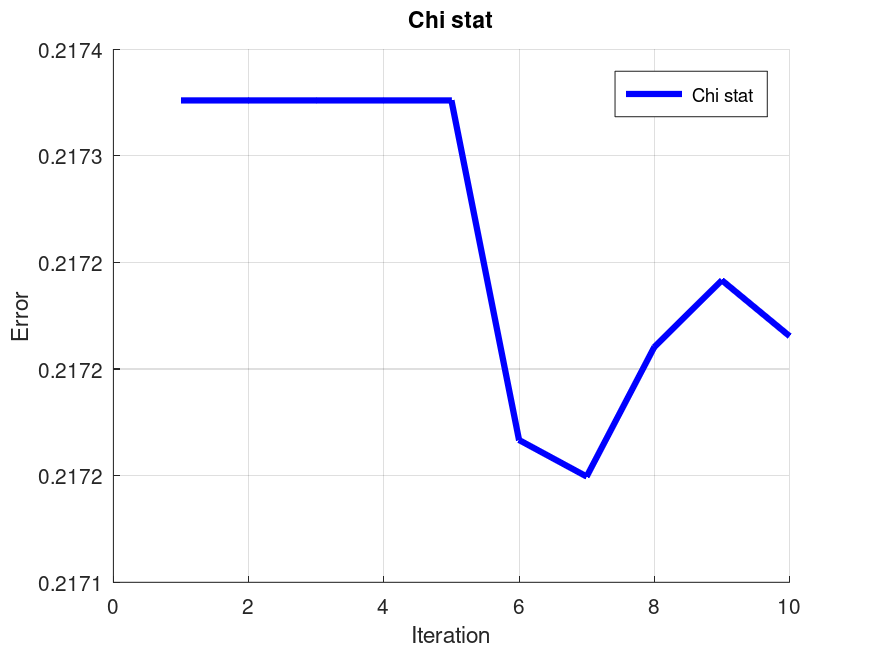
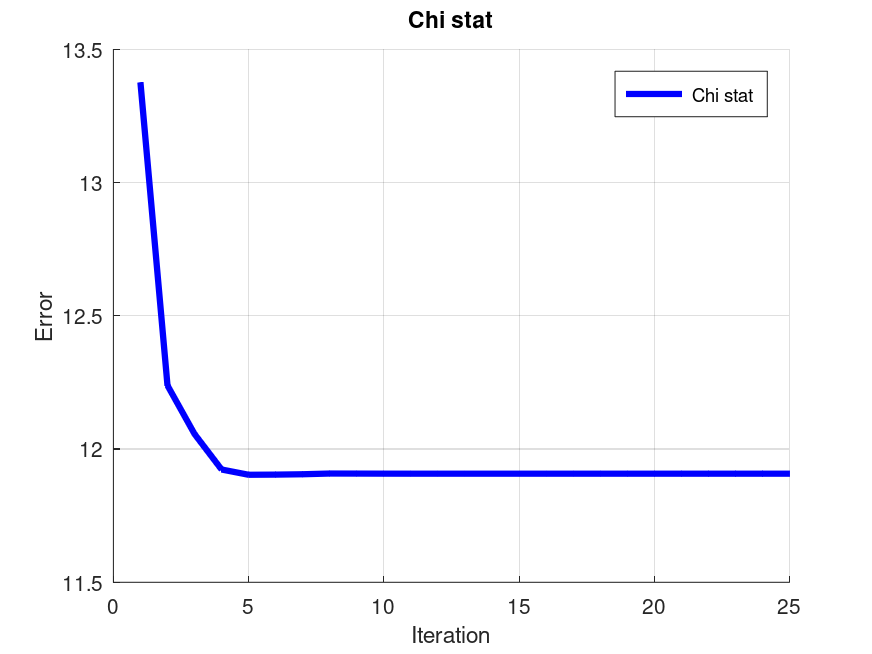
Updated: calibration and plot functions

diff --git a/robot_calibration/calibration.m b/robot_calibration/calibration.m
@@ -109,111 +109,86 @@ function X = boxplus(x1, x2)
 endfunction
 
 function X = boxminus(x1, x2)
-  X = t2v(x1*inv(x2));
+  X = t2v(inv(x2)*x1);
 endfunction
 
-function odometry = odometry_update(x, i, odometry_pose, delta_ticks, delta_time)
-  ksteer = x(1);
-  ktraction = x(2);
-  axis_length = x(3);
-  steer_offset = x(4);
-
-  #threshold for increments that are too small
-  alpha_x = 1e-5;
-  alpha_y = 1e-5;
-  alpha_th = 1e-4;
-  alpha_phi = 1e-4;
-  alpha = [alpha_x, alpha_y, alpha_th, alpha_phi];
-
-  ticks_steer = delta_ticks(i, 1);
-  ticks_traction = delta_ticks(i, 2);
-
-  v = (ktraction*ticks_traction);
-  dphi = (ksteer*ticks_steer) + steer_offset;
-
-  if i == 1
-    delta = [0, 0, 0, 0];
-  else
-    dx = v * cos(odometry_pose(i-1, 3))*cos(odometry_pose(i-1, 4))*delta_time(i, 1);
-    dy = v * sin(odometry_pose(i-1, 3))*cos(odometry_pose(i-1, 4))*delta_time(i, 1);
-    dth = v * (sin(odometry_pose(i-1, 4))/axis_length)*delta_time(i, 1);
-    dphi = dphi*delta_time(i, 1);
-
-    #noise
-    n = 0.00001;
-
-    delta = [dx, dy, dth, dphi] + n;
-
-    #skip increments that are too small
-    delta(abs(delta) < alpha) = 0;
-
-    if any(delta ~= 0)
-      delta = odometry_pose(i-1, :) + delta;
-    else
-      delta = odometry_pose(i-1, :);
-    endif
-  endif
-  odometry = delta;
-endfunction
-
-function [X, chi_stats, n_inliers, odometry_calibration] = odometry_calibration(X, tracker_pose, delta_ticks, delta_time, n_iter)
-
+function [X, chi_stats, n_inliers] = odometry_calibration(odometry_pose, tracker_pose, n_iter)
   chi_stats = zeros(1, n_iter);
   n_inliers = zeros(1, n_iter);
-  threshold_kernel = 1e-4;
-  damping = 1;
-  odometry_pose = zeros(size(delta_ticks, 1), 4);
-
+  threshold_kernel = 1e10;
+  damping = 0;
+  X = eye(3);
+  
   for i = 1:n_iter
     H = zeros(length(X), length(X));
     b = zeros(length(X), 1);
     chi_stats(i) = 0;
-
+    
     for j = 1:size(tracker_pose, 1)
-      [e, J, odometry] = ErrorAndJacobian(X, j, odometry_pose, tracker_pose, delta_ticks, delta_time);
-      odometry_pose(j, :) = odometry;
+      [e, J] = ErrorAndJacobian(X, odometry_pose(j, :), tracker_pose(j, :));
       chi = e'*e;
-
+      
       if (chi > threshold_kernel)
         e = e*sqrt(threshold_kernel/chi);
         chi = threshold_kernel;
       else
         n_inliers(i)++;
       endif
-
+      
       chi_stats(i) = chi_stats(i) + chi;
       H = H + J' * J;
       b = b + J' * e;
     endfor
-    H = H + eye(4)*damping;
+    H = H + eye(3) * damping;
 
     dx = -H\b;
-    X = X + dx;
-    fprintf('Iteration %d: X = [%f, %f, %f, %f] and chi stat = %f\n', i, X(1), X(2), X(3), X(4), chi_stats(i));
+    X = boxplus(X, dx);
+    fprintf('Iteration %d: chi stat = %f\n', i, chi_stats(i));
   endfor
-  odometry_calibration = odometry_pose;
 endfunction
 
-function [e, J, odometry] = ErrorAndJacobian(X, j, odometry_pose, tracker_pose, delta_ticks, delta_time)
-  odometry = odometry_update(X, j, odometry_pose, delta_ticks, delta_time);
-  pred = v2t(odometry);
-  meas = v2t(tracker_pose(j, :));
-
+function [e, J] = ErrorAndJacobian(X, odometry_pose, tracker_pose)
+  pred = X*v2t(odometry_pose(1:3)');
+  meas = v2t(tracker_pose');
+  
   e = boxminus(meas, pred);
-    
+  
   epsilon = 1e-4;
   inv_eps2= 0.5/epsilon;
-  n = length(X);
-  J = zeros(3, n);
-
-  for i = 1:size(J, 1)
+  J = zeros(3, 3);
+  
+  for i = 1:length(X)
     e_vec = zeros(length(X), 1);
     e_vec(i) = epsilon;
-    odometry_plus = odometry_update(X+e_vec, j, odometry_pose, delta_ticks, delta_time);
-    odometry_minus = odometry_update(X-e_vec, j, odometry_pose, delta_ticks, delta_time);
-    J(i, :) = inv_eps2 * (odometry_plus - odometry_minus);
+
+    odometry_plus  = boxplus(X, e_vec);
+    odometry_minus = boxplus(X, -e_vec);
+    
+    J(:, i) = inv_eps2*boxminus(odometry_minus, odometry_plus);
   endfor
 endfunction
+
+%{
+function [e, J] = ErrorAndJacobian(X, odometry_pose, tracker_pose)
+  t = X(1:2,3);
+  R = X(1:2,1:2);
+  pred = R*odometry_pose(1:2)' + t;
+  e = pred - tracker_pose(1:2)';
+
+  J = zeros(2, 3);
+  J(1:2, 1:2) = eye(2);
+  J(1:2, 3) = [-pred(2), pred(1)]';
+endfunction
+%}
+
+function odometry_corrected = odometry_correction(X_result, odometry_pose)
+	odometry_corrected = zeros(size(odometry_pose, 1), 3);
+	for i = 1:size(odometry_pose, 1)
+		u = odometry_pose(i, 1:3)';
+		uc = X_result*u;
+		odometry_corrected(i, :) = uc;
+	end
+end
 
 #plot functions
 function plot_odometry_trajectory(odometry_pose, model_pose, tracker_pose, moving, h, delta_time)
@@ -324,54 +299,6 @@ function plot_chi_stats(chi_stats, h)
     disp("Plot closed before saving is completed");
   end
   
-  waitfor(h);
-endfunction
-
-function plot_odometry_calibration(odometry_calibration, tracker_pose, moving, h, delta_time)
-  hold on;
-  grid on;
-  title('2D trajectory of the odometry pose during calibration');
-  xlabel('x');
-  ylabel('y');
-  lim_offset = 2;
-  xlim([min(min(odometry_calibration(:, 1)), min(tracker_pose(:, 1))) - lim_offset max(max(odometry_calibration(:, 1)), max(tracker_pose(:, 1))) + lim_offset]);
-  ylim([min(min(odometry_calibration(:, 2)), min(tracker_pose(:, 1))) - lim_offset max(max(odometry_calibration(:, 2)), max(tracker_pose(:, 1))) + lim_offset]);
-
-  if moving
-    line1 = plot(NaN, NaN, 'r-', 'linewidth', 2);
-    line2 = plot(NaN, NaN, 'b-', 'linewidth', 2);
-    legend('Odometry pose during calibration', 'Tracker pose');
-        
-    for i = 1:size(odometry_calibration, 1),
-      if ishandle(h)
-        set(line1, 'XData', odometry_calibration(1:i, 1), 'YData', odometry_calibration(1:i, 2));
-        set(line2, 'XData', tracker_pose(1:i, 1), 'YData', tracker_pose(1:i, 2));
-
-        pause(delta_time(i));
-        drawnow;
-      else
-        break;
-      endif
-    endfor
-
-  else
-    name_file = "./output/odometry_calibration.png";
-    if exist(name_file, "file")
-        delete(name_file);
-    endif
-
-    plot(odometry_calibration(:, 1), odometry_calibration(:, 2), 'r-', 'linewidth', 2);
-    plot(tracker_pose(:, 1), tracker_pose(:, 2), 'b-', 'linewidth', 2);
-
-    legend('Odometry during calibration', 'Tracker pose');
-    drawnow;
-    try
-      saveas(h, name_file);
-    catch
-      disp("Plot closed before saving is completed");
-    end
-  endif
-    
   waitfor(h);
 endfunction
 

diff --git a/main.m b/main.m
@@ -56,26 +56,22 @@ plot_odometry_error(model_pose, odometry_pose, h, time);
 pause(1);
 
 #odometry calibration
-n_iter = 10;
+n_iter = 25;
 chi_stats = zeros(1, n_iter);
-X_guess = x';
-[X_result, chi_stats(1, :),  inliers_stats(1, :), odometry_calibration] = odometry_calibration(X_guess, tracker_pose, delta_ticks, delta_time, n_iter);
+[X_result, chi_stats(1, :),  inliers_stats(1, :)] = odometry_calibration(odometry_pose, tracker_pose, n_iter);
 disp('X:')
 disp(X_result);
 disp('chi stat:')
 disp(chi_stats);
 pause(1);
 
+#plot of chi stat
 plot_chi_stats(chi_stats, h);
 pause(1);
 
-#plot of odometry during calibration
-plot_odometry_calibration(odometry_calibration, tracker_pose, moving, h, delta_time);
-pause(1);
-
-#odometry calibrated
-odometry_calibrated = odometry(X_result', delta_ticks, delta_time);
+#odoemtry correction
+odometry_corrected = odometry_correction(X_result, odometry_pose(:, 1:3));
 
 #plot of calibrated odometry
-plot_odometry_calibrated(odometry_calibrated, tracker_pose, moving, h, delta_time);
+plot_odometry_calibrated(odometry_corrected, tracker_pose, moving, h, delta_time);
 pause(1);
